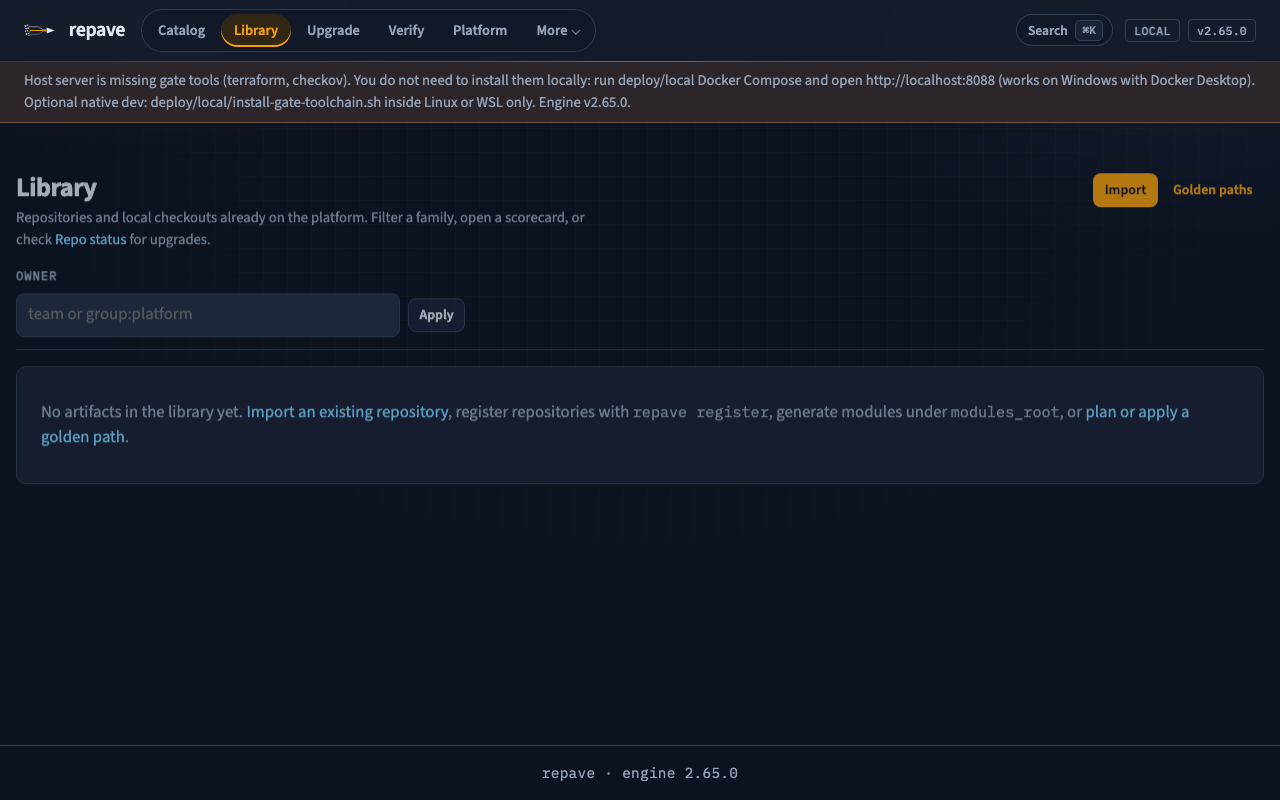
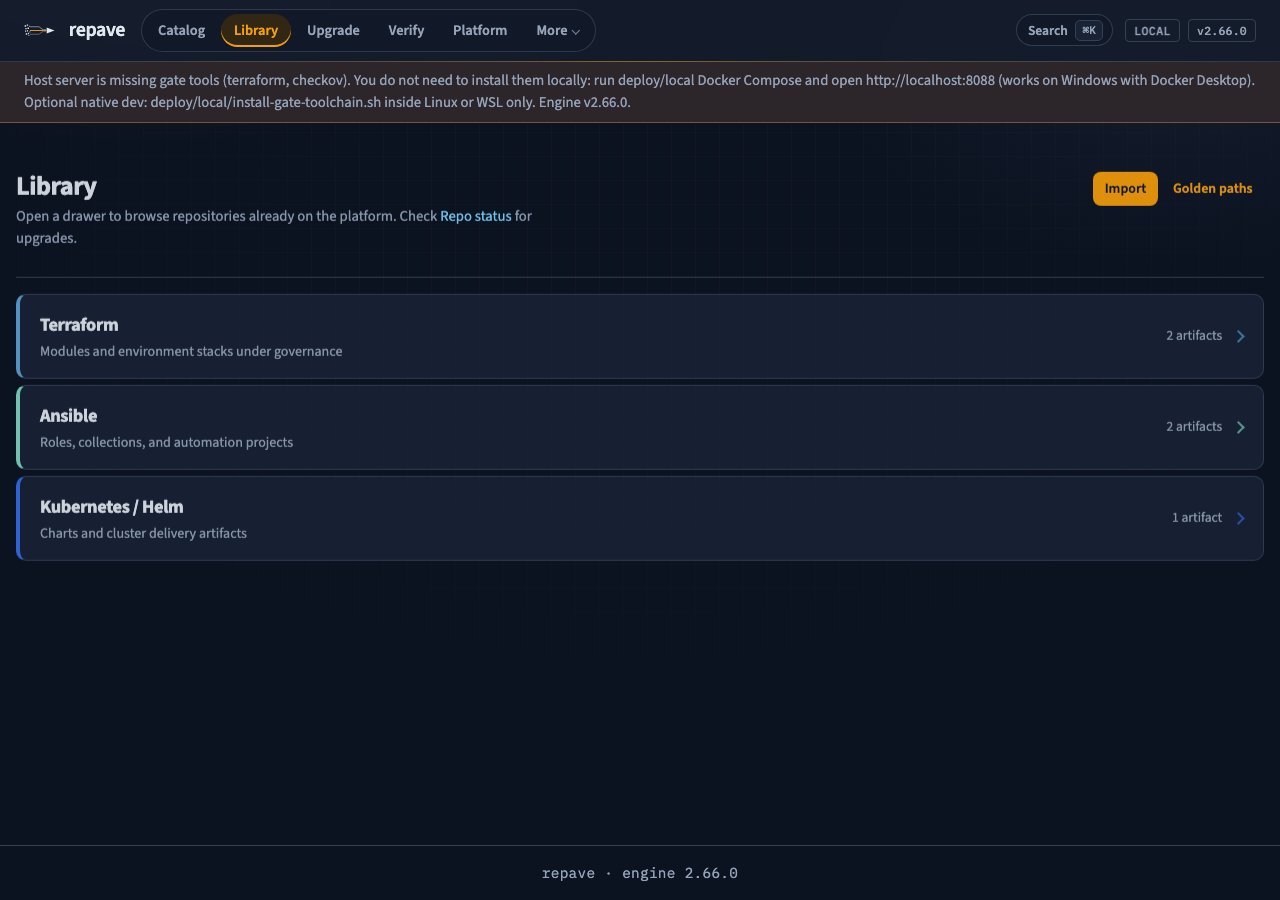
docs(portal): add library drawer screenshot to the README
Replace the empty card-grid library shot with labeled family drawers
and show it under the home catalog.

diff --git a/docs/images/portal/README.md b/docs/images/portal/README.md
@@ -8,7 +8,7 @@ major portal UI changes (see [Demo verification](../demo-verification.md)).
 | File | Route | Shows |
 | --- | --- | --- |
 | `home-catalog.png` | `/` | Open family card grid, search, compact header |
-| `library-catalog.png` | `/library` | Labeled family drawers (empty until a fleet is registered) |
+| `library-catalog.png` | `/library` | Labeled family drawers that open a quiet shelf |
 | `blueprint-form.png` | `/blueprints/terraform-module-generic` | Governance rail + stepper form |
 | `update-repo.png` | `/update` | Upgrade / re-render flow |
 | `import-repo.png` | `/import` | Adopt an existing repo into a golden path |

diff --git a/README.md b/README.md
@@ -136,6 +136,12 @@ mockups).
   <sub>Home — open family card grid and search</sub>
 </p>
 
+<p align="center">
+  <img src="docs/images/portal/library-catalog.png" alt="repave library — labeled family drawers" width="920" />
+  <br />
+  <sub>Library — open a drawer to browse governed repositories</sub>
+</p>
+
 <table>
   <tr>
     <td width="50%">
